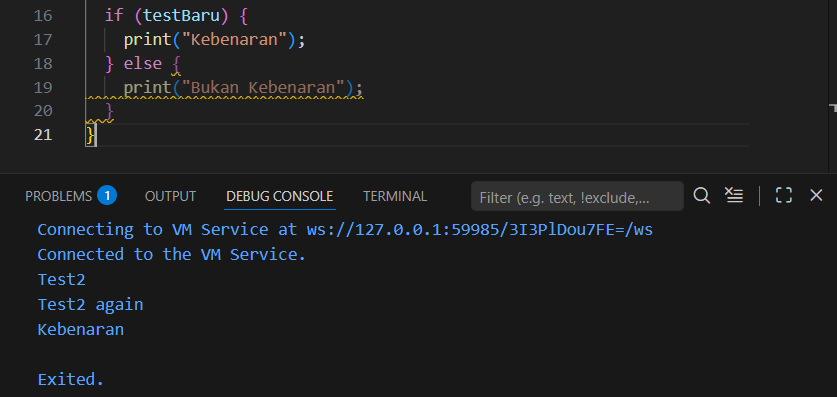
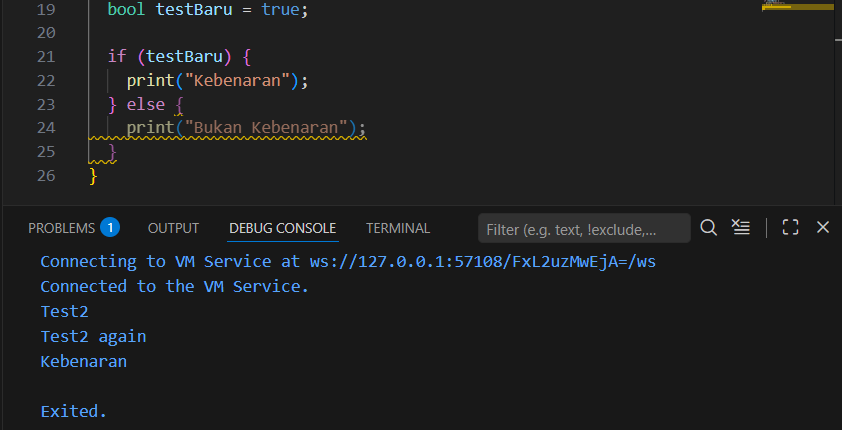
Pertemuan 3 Dart

diff --git a/03 Pengantar Bahasa Pemrograman Dart/Praktikum1.dart b/03 Pengantar Bahasa Pemrograman Dart/Praktikum1.dart
@@ -11,7 +11,12 @@ void main() {
 
   if (test == "test2") print("Test2 again");
 
-bool testBaru = true;
+  // String test = "true";
+  // if (test) {
+  //   print("Kebenaran");
+  // }
+
+  bool testBaru = true;
 
   if (testBaru) {
     print("Kebenaran");
